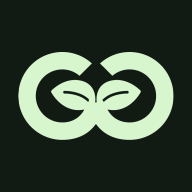
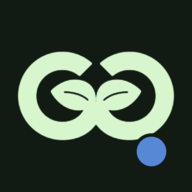
fix(client): address review on the alpha environment
- Give alpha's 192px and maskable icons the blue dot; beta's have none,
  so alpha looked like beta wherever a launcher picks those sizes.
- Build alpha's first deployment even when its sources match develop:
  its output follows the branch, so the develop comparison cannot judge it.
- Keep `alpha` out of the deployment-signal fallback, which again chooses
  only between beta and production.
- Name `[alpha]` in the QA recorder help, its README and the QA guides.
- Say that only alpha's pages skip PostHog; the shared Agent still
  records events for its requests.

Refs PRD-1517

Agent-Model: claude-opus-5-5/high

diff --git a/packages/client/src/config/pwaManifest.ts b/packages/client/src/config/pwaManifest.ts
@@ -151,6 +151,13 @@ function normalizeFlavor(value: string | undefined): PwaManifestFlavor | undefin
   return undefined;
 }
 
+// Deployment signals choose only between beta and production, as they did before alpha: alpha comes
+// from an explicit flavor or the alpha branch, so an `alpha` here falls through to the next signal.
+function normalizeDeploymentFlavor(value: string | undefined): PwaManifestFlavor | undefined {
+  const flavor = normalizeFlavor(value);
+  return flavor === "alpha" ? undefined : flavor;
+}
+
 export function resolvePwaManifestFlavor(
   env: Record<string, string | undefined>
 ): PwaManifestFlavor {
@@ -165,12 +172,12 @@ export function resolvePwaManifestFlavor(
   if (env.VERCEL_GIT_COMMIT_REF === ALPHA_BRANCH) return "alpha";
 
   const deploymentFlavor =
-    normalizeFlavor(env.VERCEL_TARGET_ENV) ||
-    normalizeFlavor(env.VITE_VERCEL_TARGET_ENV) ||
-    normalizeFlavor(env.SENTRY_ENVIRONMENT) ||
-    normalizeFlavor(env.VITE_SENTRY_ENVIRONMENT) ||
-    normalizeFlavor(env.APP_ENV) ||
-    normalizeFlavor(env.VITE_APP_ENV);
+    normalizeDeploymentFlavor(env.VERCEL_TARGET_ENV) ||
+    normalizeDeploymentFlavor(env.VITE_VERCEL_TARGET_ENV) ||
+    normalizeDeploymentFlavor(env.SENTRY_ENVIRONMENT) ||
+    normalizeDeploymentFlavor(env.VITE_SENTRY_ENVIRONMENT) ||
+    normalizeDeploymentFlavor(env.APP_ENV) ||
+    normalizeDeploymentFlavor(env.VITE_APP_ENV);
 
   return deploymentFlavor === "staging" ? "staging" : "production";
 }

diff --git a/packages/qa/index.html b/packages/qa/index.html
@@ -1421,7 +1421,7 @@
         : `Reviewing ${esc(scope)} — read only`;
     const runLine = runSummaryLine();
     const helpLine = runsSupported
-      ? `<div class="helpline">A note starting with [beta], [prod], or [local] marks a verdict taken outside this run's environment. N/A means out of scope for this run; a skipped case has no entry.</div>`
+      ? `<div class="helpline">A note starting with [beta], [prod], [local], or [alpha] marks a verdict taken outside this run's environment. N/A means out of scope for this run; a skipped case has no entry.</div>`
       : "";
     const startRun = runsSupported && who && !rolloverOpen
       ? '<button type="button" class="rollover-btn" id="qa-run-rollover">Start new run</button>'

diff --git a/packages/client/src/__tests__/manifest/pwa-manifest.test.ts b/packages/client/src/__tests__/manifest/pwa-manifest.test.ts
@@ -138,6 +138,10 @@ describe("PWA manifest branding", () => {
     ).toBe("alpha");
     expect(resolvePwaManifestFlavor({ PWA_MANIFEST_FLAVOR: "alpha" })).toBe("alpha");
     expect(resolvePwaManifestFlavor({ VERCEL_GIT_COMMIT_REF: "develop" })).toBe("production");
+    // A deployment signal naming alpha off the alpha branch passes to the next signal, as before.
+    expect(resolvePwaManifestFlavor({ SENTRY_ENVIRONMENT: "alpha", APP_ENV: "staging" })).toBe(
+      "staging"
+    );
   });
 
   it("uses Vercel's custom environment signal for staging builds", () => {

diff --git a/CONTRIBUTING.md b/CONTRIBUTING.md
@@ -22,7 +22,7 @@ Green Goods runs a **staging → production** flow:
 
 - **`develop`** is the integration/staging branch. Open your PRs here. A merge to `develop` deploys the Agent straight to production. It also deploys the QA app to production and the website, app and admin to staging for validation, unless Vercel's ignore step finds that nothing a site is built from changed since its last deployment.
 - **`main`** is production for the website, app and admin. Maintainers promote `develop → main` once changes are validated on staging.
-- **`alpha`** serves experiments at `alpha.greengoods.app` (App) and `alpha.admin.greengoods.app` (Hub) for a few testers before they reach beta. It runs against the same chain, indexer and Agent as beta, so its writes are real, and it sends no product analytics. Cut it from `develop` and merge experiment branches into it; it never merges back. An experiment that graduates reaches `develop` through its own pull request.
+- **`alpha`** serves experiments at `alpha.greengoods.app` (App) and `alpha.admin.greengoods.app` (Hub) for a few testers before they reach beta. It runs against the same chain, indexer and Agent as beta, so its writes are real. Its pages send no PostHog analytics, though events the shared Agent records for its requests still count. Cut it from `develop` and merge experiment branches into it; it never merges back. An experiment that graduates reaches `develop` through its own pull request.
 
 Only `main`, `develop` and `alpha` create Vercel deployments for the App and the Hub: the `git.deploymentEnabled` rule in their `vercel.json` turns every other branch off, which keeps preview builds from running for each feature branch.
 

diff --git a/packages/qa/README.md b/packages/qa/README.md
@@ -113,7 +113,8 @@ render through `Intl.RelativeTimeFormat`, so they follow the tester's language w
 unit in each locale file.
 
 - N/A means out of scope for this run; a skipped case has no entry. A note starting with
-  `[beta]`, `[prod]`, or `[local]` marks a verdict taken outside the run's environment.
+  `[beta]`, `[prod]`, `[local]`, or `[alpha]` marks a verdict taken outside the run's environment.
+  Alpha, the experiments site at `alpha.greengoods.app`, is never a run's own environment.
 
 The run lifecycle itself — what a run is, the index shape, rollover, the legacy baseline — lives
 in `runs.ts`, one pure module both the deployed functions and the local server import.

diff --git a/.claude/skills/qa-triage/linear-templates.md b/.claude/skills/qa-triage/linear-templates.md
@@ -200,7 +200,7 @@ review actions; two cross-surface failures trace to shared date handling.">
 
 Build under test: client `<sha>` · admin `<sha>`
 Run: Run <N> · <label> · <environment>
-Environment: <production | beta (staging) | local: the session default; a verdict taken elsewhere carries a `[beta]`, `[prod]`, or `[local]` note prefix>
+Environment: <production | beta (staging) | local: the session default; a verdict taken elsewhere carries a `[beta]`, `[prod]`, `[local]`, or `[alpha]` note prefix>
 Full report: [QA session YYYY-MM-DD · full report](<linear-document-url>)
 
 ## Results by priority
